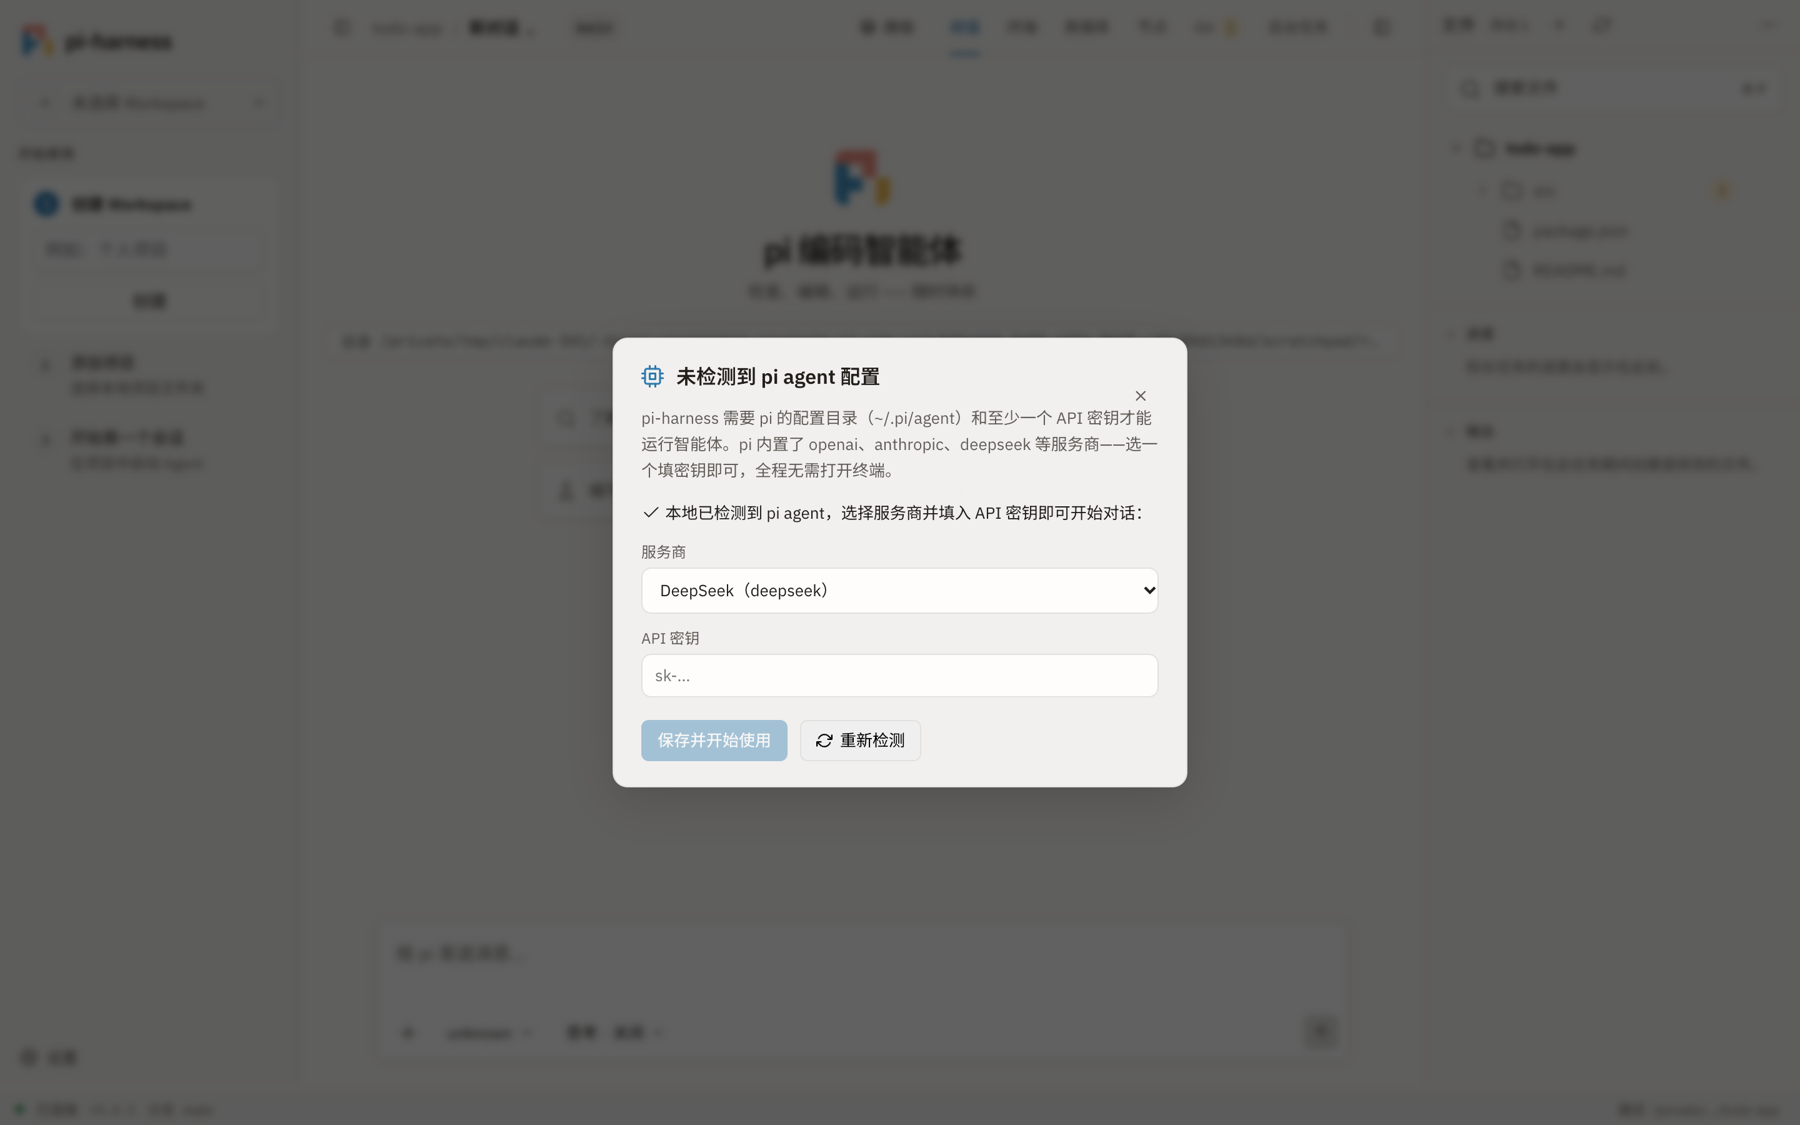
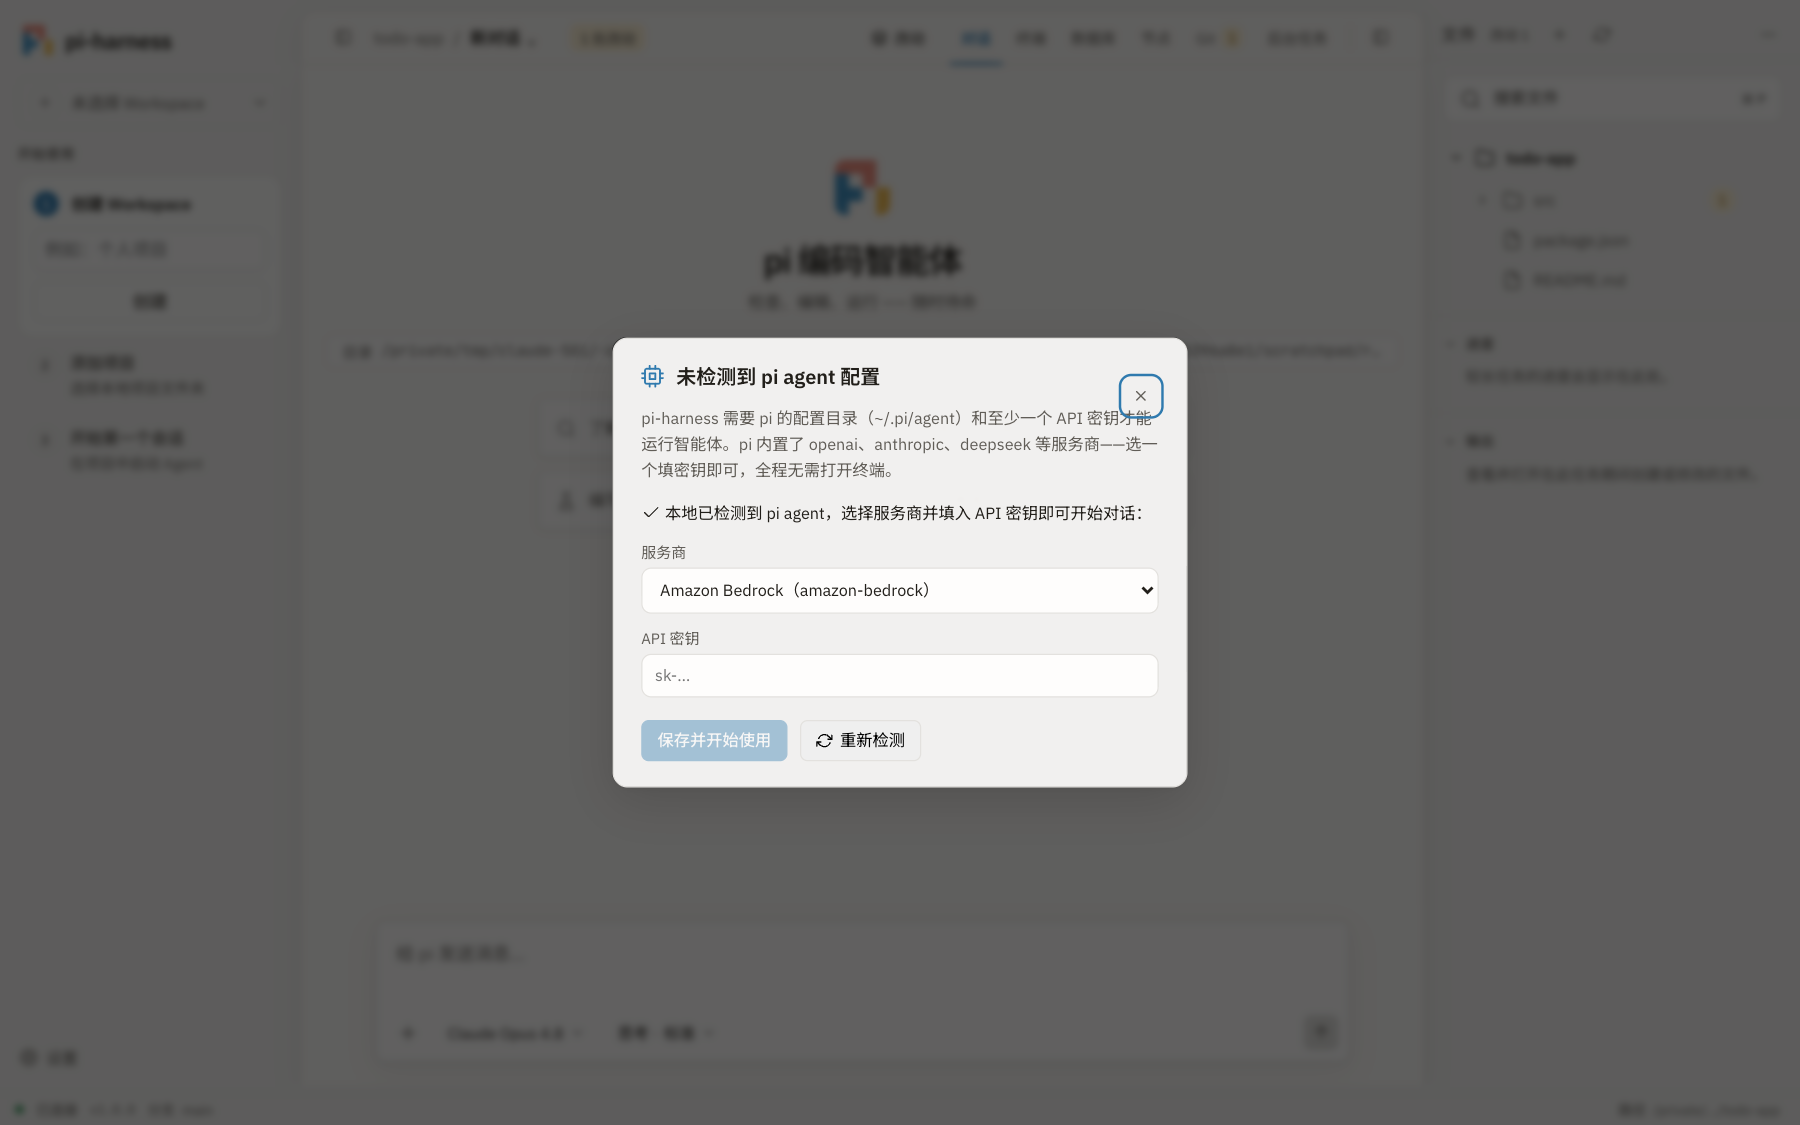
docs(readme): refresh screenshots and describe themes, Wiki and release channels
Screenshots retaken from an isolated demo project with a mock model on the
current UI. Also keep the project name readable in the breadcrumb.

diff --git a/web/src/styles.css b/web/src/styles.css
@@ -12593,7 +12593,8 @@ html.pi-desktop-linux .design-workspace.wiki-mode .topbar { padding-right: 148px
 .design-workspace .view-switch button:hover { background: transparent; color: var(--heading); }
 .design-workspace .view-switch button.active { background: transparent; color: var(--accent); font-weight: 600; box-shadow: inset 0 -2px 0 var(--accent); }
 .header-changes-chip { flex: none; display: inline-flex; align-items: center; height: 22px; padding: 0 8px; border-radius: var(--r-sm); background: var(--yellow-bg); color: var(--yellow-fg); font-size: 11.5px; font-weight: 500; white-space: nowrap; }
-.design-workspace .header-location > span:first-child { flex: 0 2 auto; max-width: min(220px, 30%); }
+.design-workspace .header-location > span:first-child { flex: 0 0 auto; max-width: min(160px, 30%); }
+.design-workspace .header-location > .conversation-title-button { flex: 0 4 auto; }
 
 /* ---- Reply content: tables, code blocks with a header bar, API route tags ---- */
 .msg-text table { display: table; width: auto; max-width: 100%; border-collapse: separate; border-spacing: 0; border: 1px solid var(--border); border-radius: var(--r-md); background: var(--bg-elev); overflow: hidden; }
